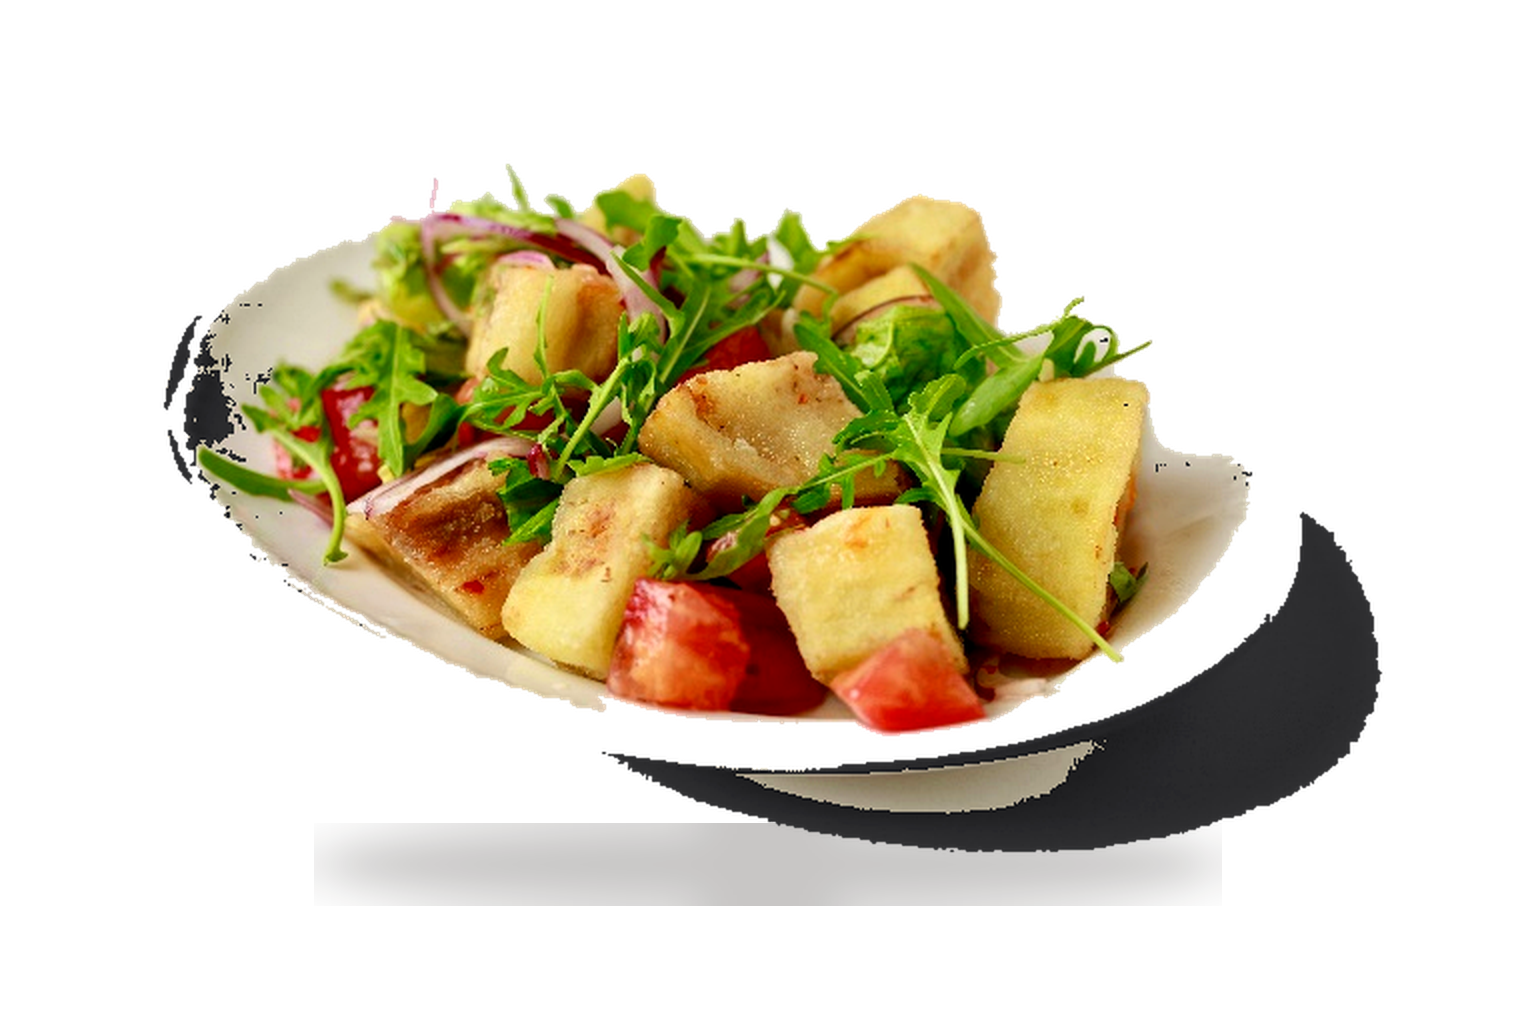
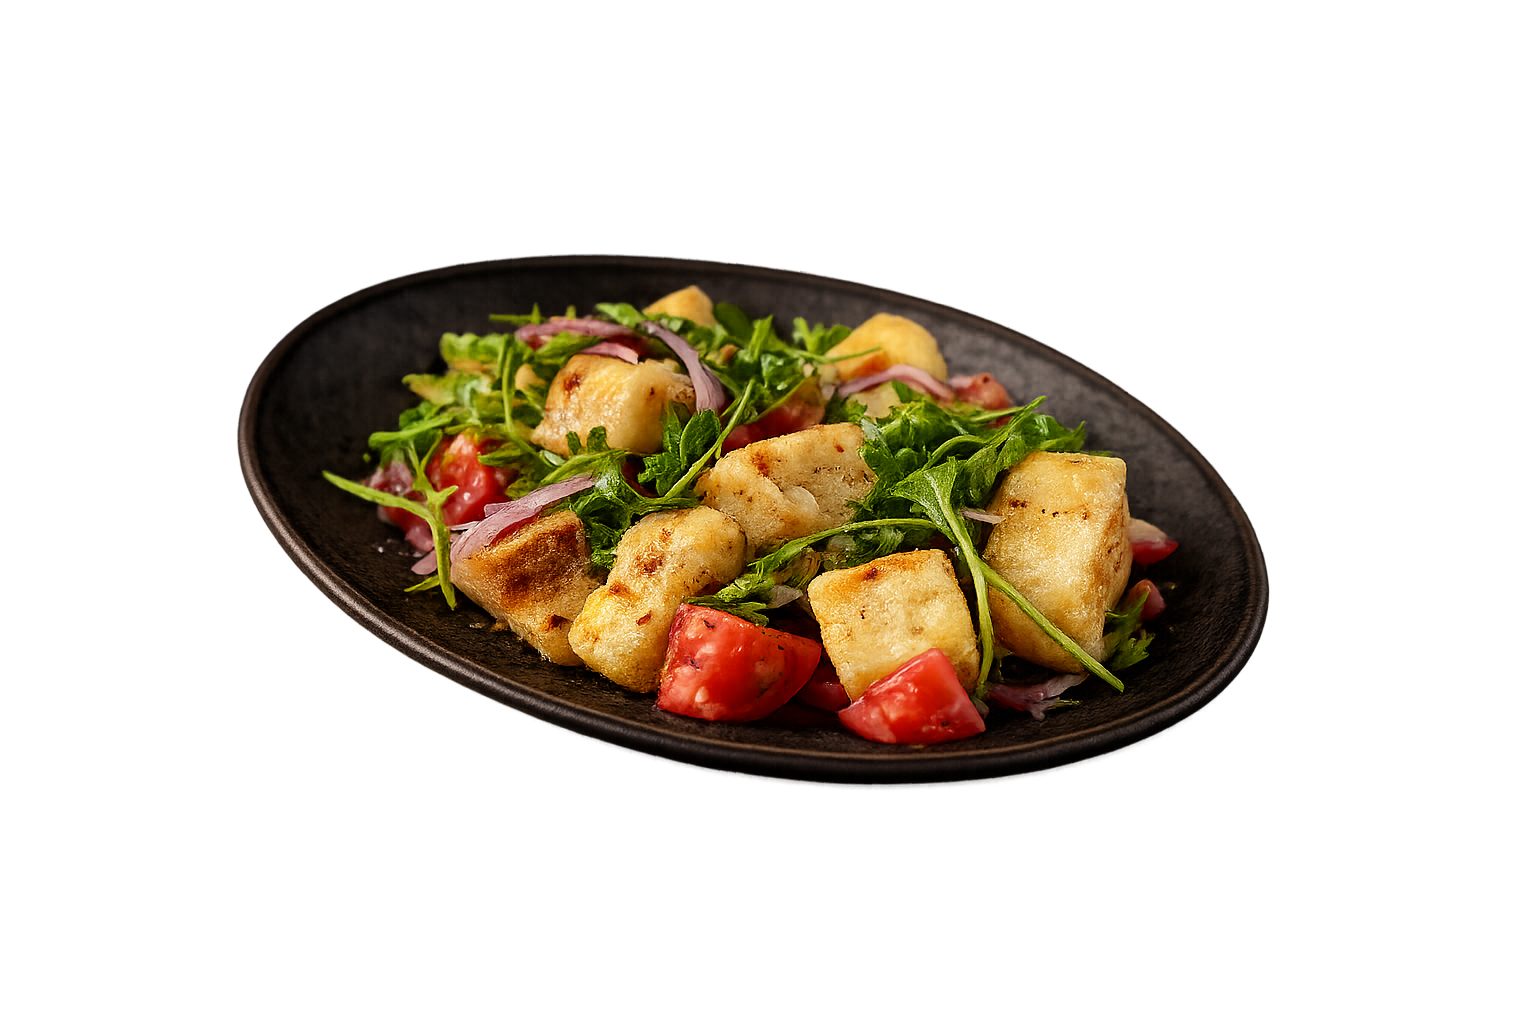
gui

diff --git a/README.md b/README.md
@@ -1,21 +1,20 @@
 # perets_website
 
-Первый GUI-прототип сайта ресторана PERETS с онлайн-заказом.
+Статический сайт ресторана PERETS для GitHub Pages.
 
 ## Что есть сейчас
 
 - Главный экран с логотипом и фото ресторана.
-- Каталог с категориями и моковыми карточками блюд.
-- Отдельная страница корзины с количеством, итогом и демо-формой оформления.
-- Страница входа и регистрации пользователя.
+- Каталог с категориями и карточками блюд.
 - Блоки о ресторане, галерея и контакты.
 - Бесплатные шрифты Manrope и Oswald из Google Fonts.
-- Страница сравнения бесплатных шрифтов `frontend/font-preview.html`.
 
 ## Как открыть
 
-Откройте `frontend/index.html` в браузере.
+Откройте `index.html` в браузере.
 
-На этом этапе база данных не подключена. Данные меню находятся в
-`frontend/script.js` и сделаны близко к структуре таблицы `menu_items`.
-Корзина хранится в `localStorage`; контакты для заказа предполагаются из профиля.
+Для GitHub Pages выберите источник деплоя `Deploy from a branch`, ветку `main`
+и папку `/root`. Главная страница сайта лежит в корне репозитория.
+
+На этом этапе база данных не подключена. Данные меню находятся в `script.js`
+и сделаны близко к структуре таблицы `menu_items`.